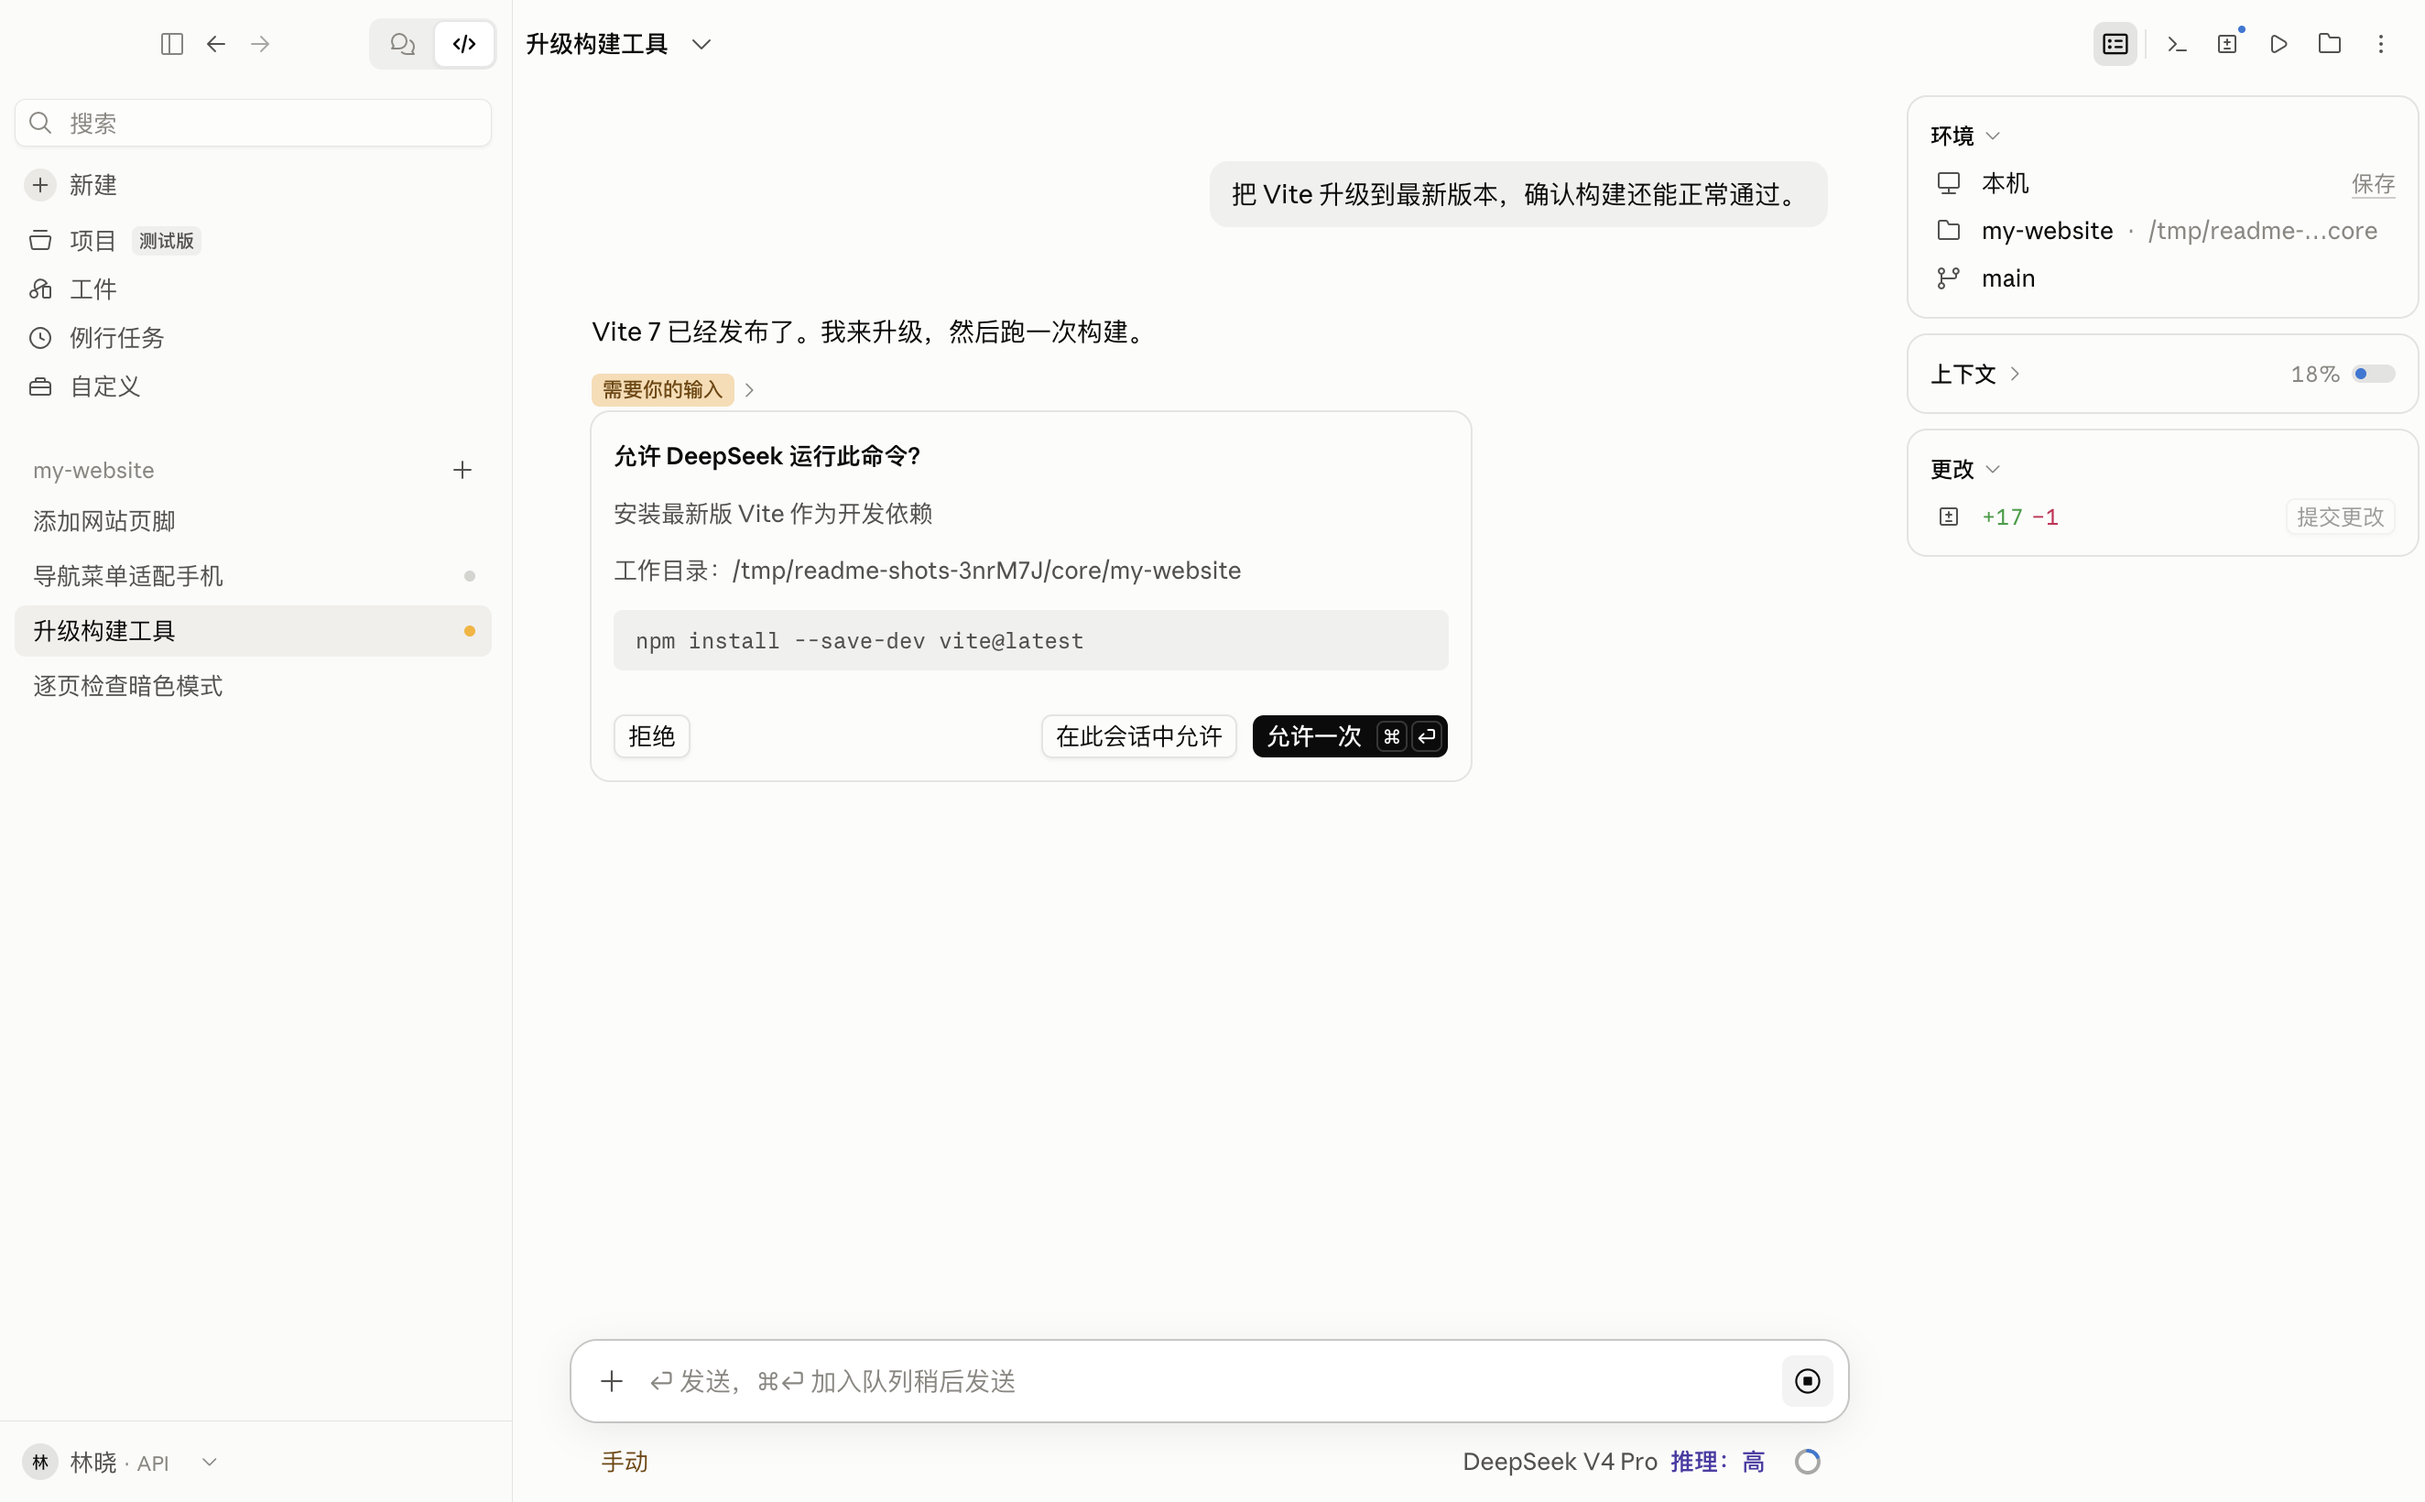
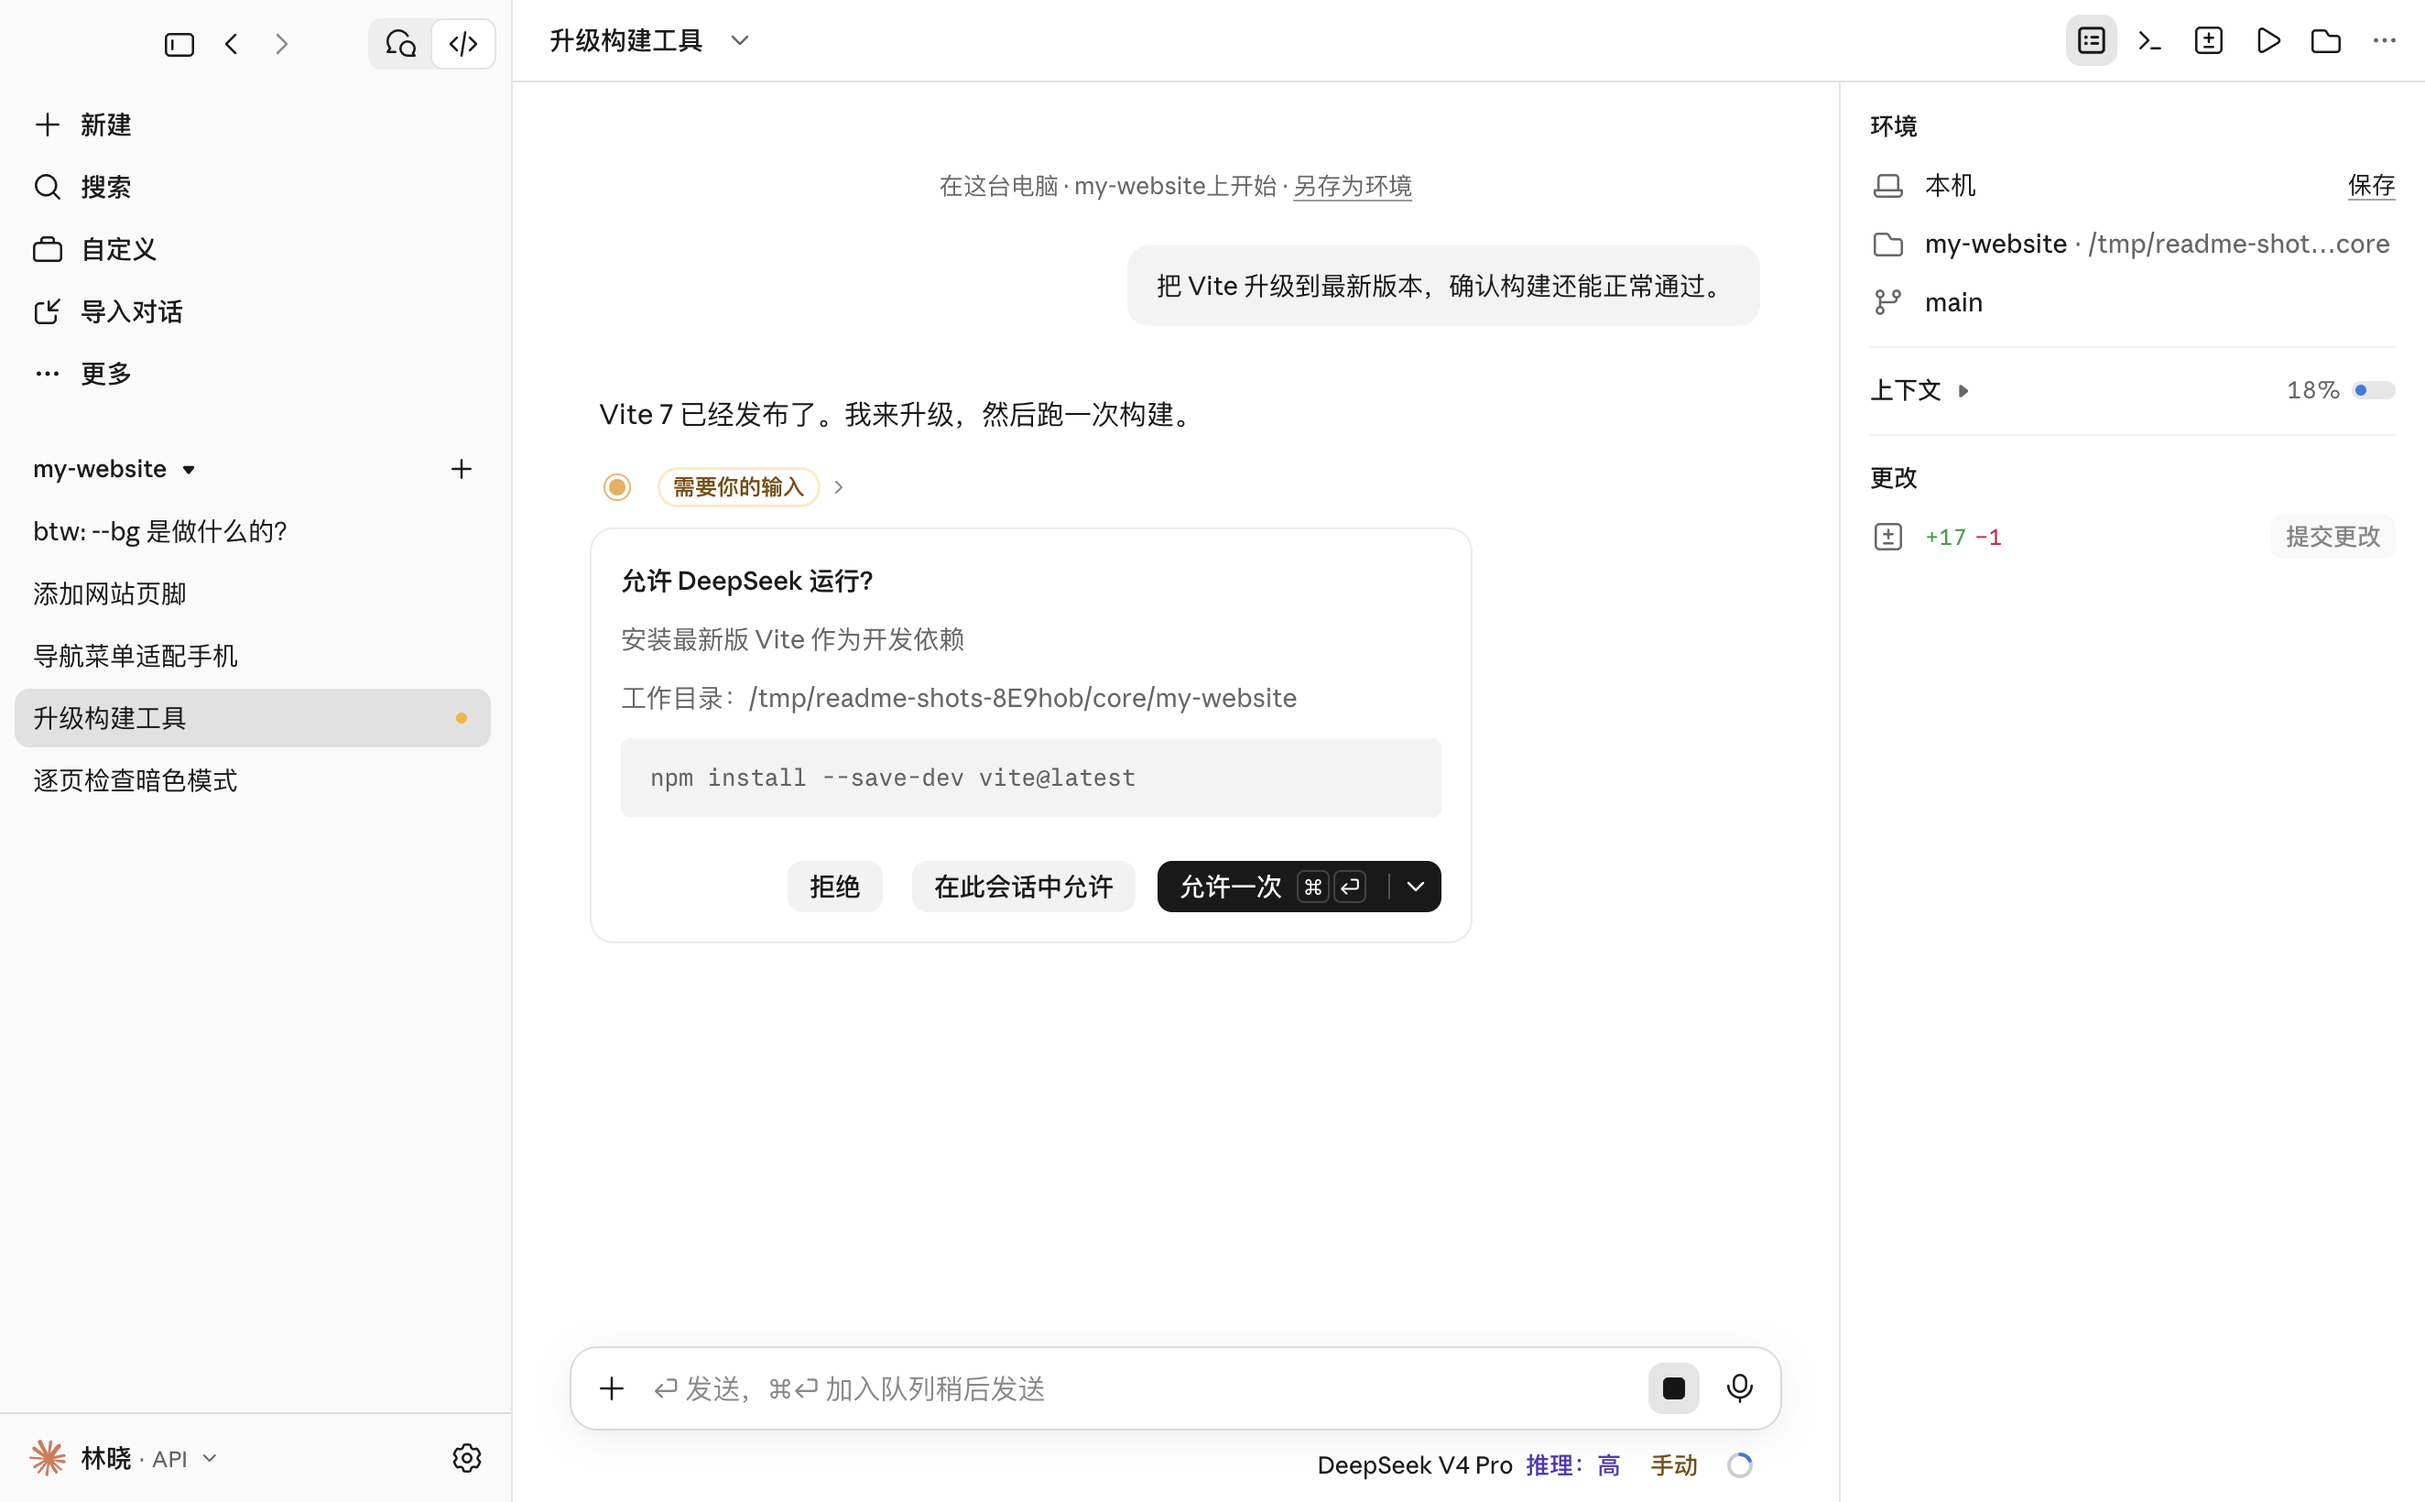
README: show the 0.3 UI screenshots
Sync next-4.16336.0 with ui-v3 fa5dfb29 (screenshots retaken on 0.3) and point
the root README images at next-4.16336.0/docs/images.

diff --git a/README.md b/README.md
@@ -16,8 +16,8 @@
 <br>
 
 <picture>
-  <source media="(prefers-color-scheme: dark)" srcset="new-2.42304.0/docs/images/session-dark-en.png">
-  <img src="new-2.42304.0/docs/images/session-en.png" alt="OpenClaude Desktop" width="100%">
+  <source media="(prefers-color-scheme: dark)" srcset="next-4.16336.0/docs/images/session-dark-en.png">
+  <img src="next-4.16336.0/docs/images/session-en.png" alt="OpenClaude Desktop" width="100%">
 </picture>
 
 </div>
@@ -47,12 +47,12 @@ Each folder is a complete source tree. Run the commands below inside the one you
 
 <table>
   <tr>
-    <td width="50%"><img src="new-2.42304.0/docs/images/home-en.png" alt="Home"></td>
-    <td width="50%"><img src="new-2.42304.0/docs/images/session-dark-en.png" alt="Dark mode"></td>
+    <td width="50%"><img src="next-4.16336.0/docs/images/home-en.png" alt="Home"></td>
+    <td width="50%"><img src="next-4.16336.0/docs/images/session-dark-en.png" alt="Dark mode"></td>
   </tr>
   <tr>
-    <td width="50%"><img src="new-2.42304.0/docs/images/slash-commands-en.png" alt="Slash commands"></td>
-    <td width="50%"><img src="new-2.42304.0/docs/images/settings-models-en.png" alt="Models"></td>
+    <td width="50%"><img src="next-4.16336.0/docs/images/slash-commands-en.png" alt="Slash commands"></td>
+    <td width="50%"><img src="next-4.16336.0/docs/images/settings-models-en.png" alt="Models"></td>
   </tr>
 </table>
 
@@ -60,20 +60,20 @@ Each folder is a complete source tree. Run the commands below inside the one you
 
 <table>
   <tr>
-    <td width="50%"><img src="new-2.42304.0/docs/images/workflow-en.png" alt="Dynamic Workflow"><br><b>Dynamic Workflow</b>: phases and agents, live in Background tasks</td>
-    <td width="50%"><img src="new-2.42304.0/docs/images/task-list-en.png" alt="Task list"><br><b>Task list</b> and the working line with the running tool</td>
+    <td width="50%"><img src="next-4.16336.0/docs/images/workflow-en.png" alt="Dynamic Workflow"><br><b>Dynamic Workflow</b>: phases and agents, live in Background tasks</td>
+    <td width="50%"><img src="next-4.16336.0/docs/images/task-list-en.png" alt="Task list"><br><b>Task list</b> and the working line with the running tool</td>
   </tr>
   <tr>
-    <td width="50%"><img src="new-2.42304.0/docs/images/next-step-en.png" alt="Next step"><br><b>Next step</b> box at the end of a turn</td>
-    <td width="50%"><img src="new-2.42304.0/docs/images/context-en.png" alt="Context"><br><b>Context</b> breakdown in the session rail</td>
+    <td width="50%"><img src="next-4.16336.0/docs/images/next-step-en.png" alt="Next step"><br><b>Next step</b> box at the end of a turn</td>
+    <td width="50%"><img src="next-4.16336.0/docs/images/context-en.png" alt="Context"><br><b>Context</b> breakdown in the session rail</td>
   </tr>
   <tr>
-    <td width="50%"><img src="new-2.42304.0/docs/images/approval-en.png" alt="Approval"><br><b>Approval</b> card for a command</td>
-    <td width="50%"><img src="new-2.42304.0/docs/images/side-chat-en.png" alt="Side chat"><br><b>/btw</b> side chat next to the session</td>
+    <td width="50%"><img src="next-4.16336.0/docs/images/approval-en.png" alt="Approval"><br><b>Approval</b> card for a command</td>
+    <td width="50%"><img src="next-4.16336.0/docs/images/side-chat-en.png" alt="Side chat"><br><b>/btw</b> side chat next to the session</td>
   </tr>
   <tr>
-    <td width="50%"><img src="new-2.42304.0/docs/images/changes-en.png" alt="Changes"><br><b>Changes</b> pane with the session diff</td>
-    <td width="50%"><img src="new-2.42304.0/docs/images/model-effort-dark-en.png" alt="Effort"><br>Model menu with the <b>Effort</b> submenu (dark)</td>
+    <td width="50%"><img src="next-4.16336.0/docs/images/changes-en.png" alt="Changes"><br><b>Changes</b> pane with the session diff</td>
+    <td width="50%"><img src="next-4.16336.0/docs/images/model-effort-dark-en.png" alt="Effort"><br>Model menu with the <b>Effort</b> submenu (dark)</td>
   </tr>
 </table>
 

diff --git a/README.zh-CN.md b/README.zh-CN.md
@@ -16,8 +16,8 @@
 <br>
 
 <picture>
-  <source media="(prefers-color-scheme: dark)" srcset="new-2.42304.0/docs/images/session-dark.png">
-  <img src="new-2.42304.0/docs/images/session.png" alt="OpenClaude Desktop" width="100%">
+  <source media="(prefers-color-scheme: dark)" srcset="next-4.16336.0/docs/images/session-dark.png">
+  <img src="next-4.16336.0/docs/images/session.png" alt="OpenClaude Desktop" width="100%">
 </picture>
 
 </div>
@@ -47,12 +47,12 @@
 
 <table>
   <tr>
-    <td width="50%"><img src="new-2.42304.0/docs/images/home.png" alt="首页"></td>
-    <td width="50%"><img src="new-2.42304.0/docs/images/session-dark.png" alt="暗色模式"></td>
+    <td width="50%"><img src="next-4.16336.0/docs/images/home.png" alt="首页"></td>
+    <td width="50%"><img src="next-4.16336.0/docs/images/session-dark.png" alt="暗色模式"></td>
   </tr>
   <tr>
-    <td width="50%"><img src="new-2.42304.0/docs/images/slash-commands.png" alt="斜杠命令"></td>
-    <td width="50%"><img src="new-2.42304.0/docs/images/settings-models.png" alt="模型设置"></td>
+    <td width="50%"><img src="next-4.16336.0/docs/images/slash-commands.png" alt="斜杠命令"></td>
+    <td width="50%"><img src="next-4.16336.0/docs/images/settings-models.png" alt="模型设置"></td>
   </tr>
 </table>
 
@@ -60,20 +60,20 @@
 
 <table>
   <tr>
-    <td width="50%"><img src="new-2.42304.0/docs/images/workflow.png" alt="动态工作流"><br><b>动态工作流</b>：阶段与智能体，在后台任务里实时显示</td>
-    <td width="50%"><img src="new-2.42304.0/docs/images/task-list.png" alt="任务清单"><br><b>任务清单</b>与加载行、运行中的工具</td>
+    <td width="50%"><img src="next-4.16336.0/docs/images/workflow.png" alt="动态工作流"><br><b>动态工作流</b>：阶段与智能体，在后台任务里实时显示</td>
+    <td width="50%"><img src="next-4.16336.0/docs/images/task-list.png" alt="任务清单"><br><b>任务清单</b>与加载行、运行中的工具</td>
   </tr>
   <tr>
-    <td width="50%"><img src="new-2.42304.0/docs/images/next-step.png" alt="下一步"><br>回合结束时的<b>下一步</b>框</td>
-    <td width="50%"><img src="new-2.42304.0/docs/images/context.png" alt="上下文"><br>会话右栏的<b>上下文</b>分类明细</td>
+    <td width="50%"><img src="next-4.16336.0/docs/images/next-step.png" alt="下一步"><br>回合结束时的<b>下一步</b>框</td>
+    <td width="50%"><img src="next-4.16336.0/docs/images/context.png" alt="上下文"><br>会话右栏的<b>上下文</b>分类明细</td>
   </tr>
   <tr>
-    <td width="50%"><img src="new-2.42304.0/docs/images/approval.png" alt="审批"><br>命令<b>审批</b>卡</td>
-    <td width="50%"><img src="new-2.42304.0/docs/images/side-chat.png" alt="侧边对话"><br><b>/btw</b> 侧边对话</td>
+    <td width="50%"><img src="next-4.16336.0/docs/images/approval.png" alt="审批"><br>命令<b>审批</b>卡</td>
+    <td width="50%"><img src="next-4.16336.0/docs/images/side-chat.png" alt="侧边对话"><br><b>/btw</b> 侧边对话</td>
   </tr>
   <tr>
-    <td width="50%"><img src="new-2.42304.0/docs/images/changes.png" alt="更改"><br><b>更改</b>面板：本会话的 diff</td>
-    <td width="50%"><img src="new-2.42304.0/docs/images/model-effort-dark.png" alt="推理强度"><br>模型菜单的<b>推理强度</b>子菜单（暗色）</td>
+    <td width="50%"><img src="next-4.16336.0/docs/images/changes.png" alt="更改"><br><b>更改</b>面板：本会话的 diff</td>
+    <td width="50%"><img src="next-4.16336.0/docs/images/model-effort-dark.png" alt="推理强度"><br>模型菜单的<b>推理强度</b>子菜单（暗色）</td>
   </tr>
 </table>
 
